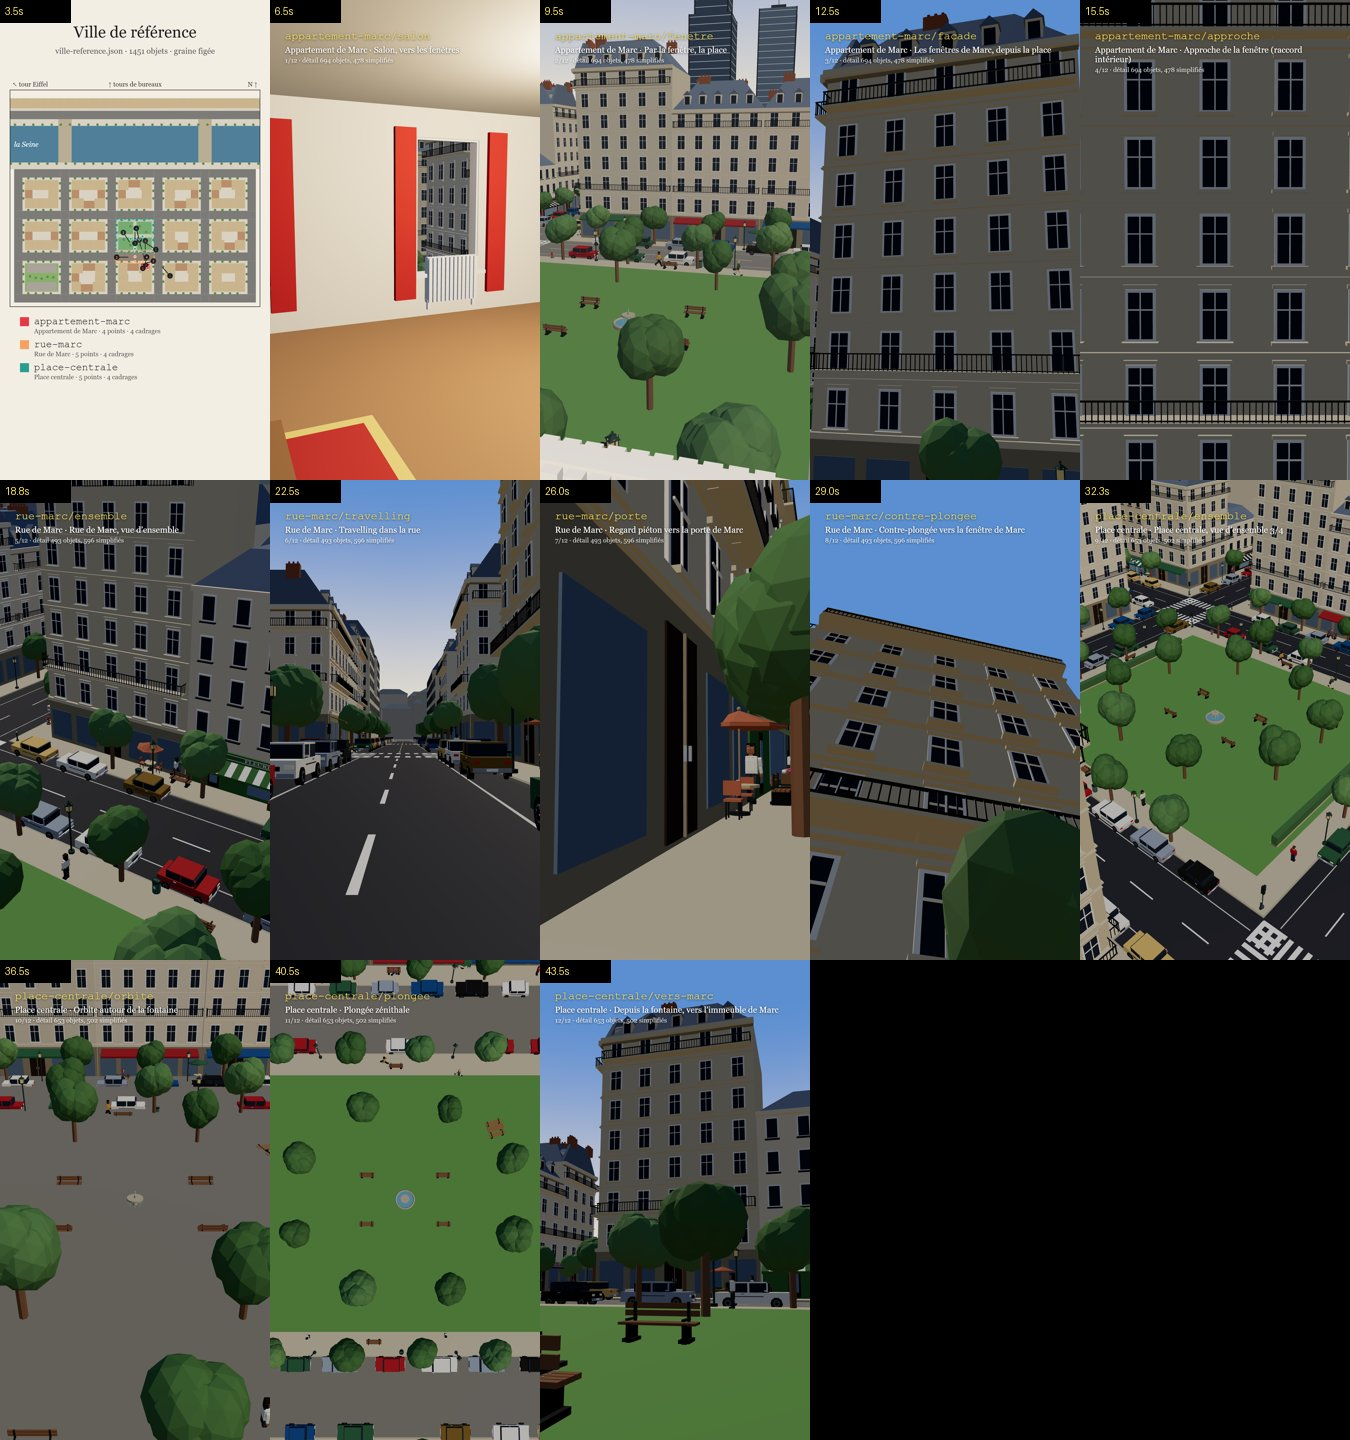
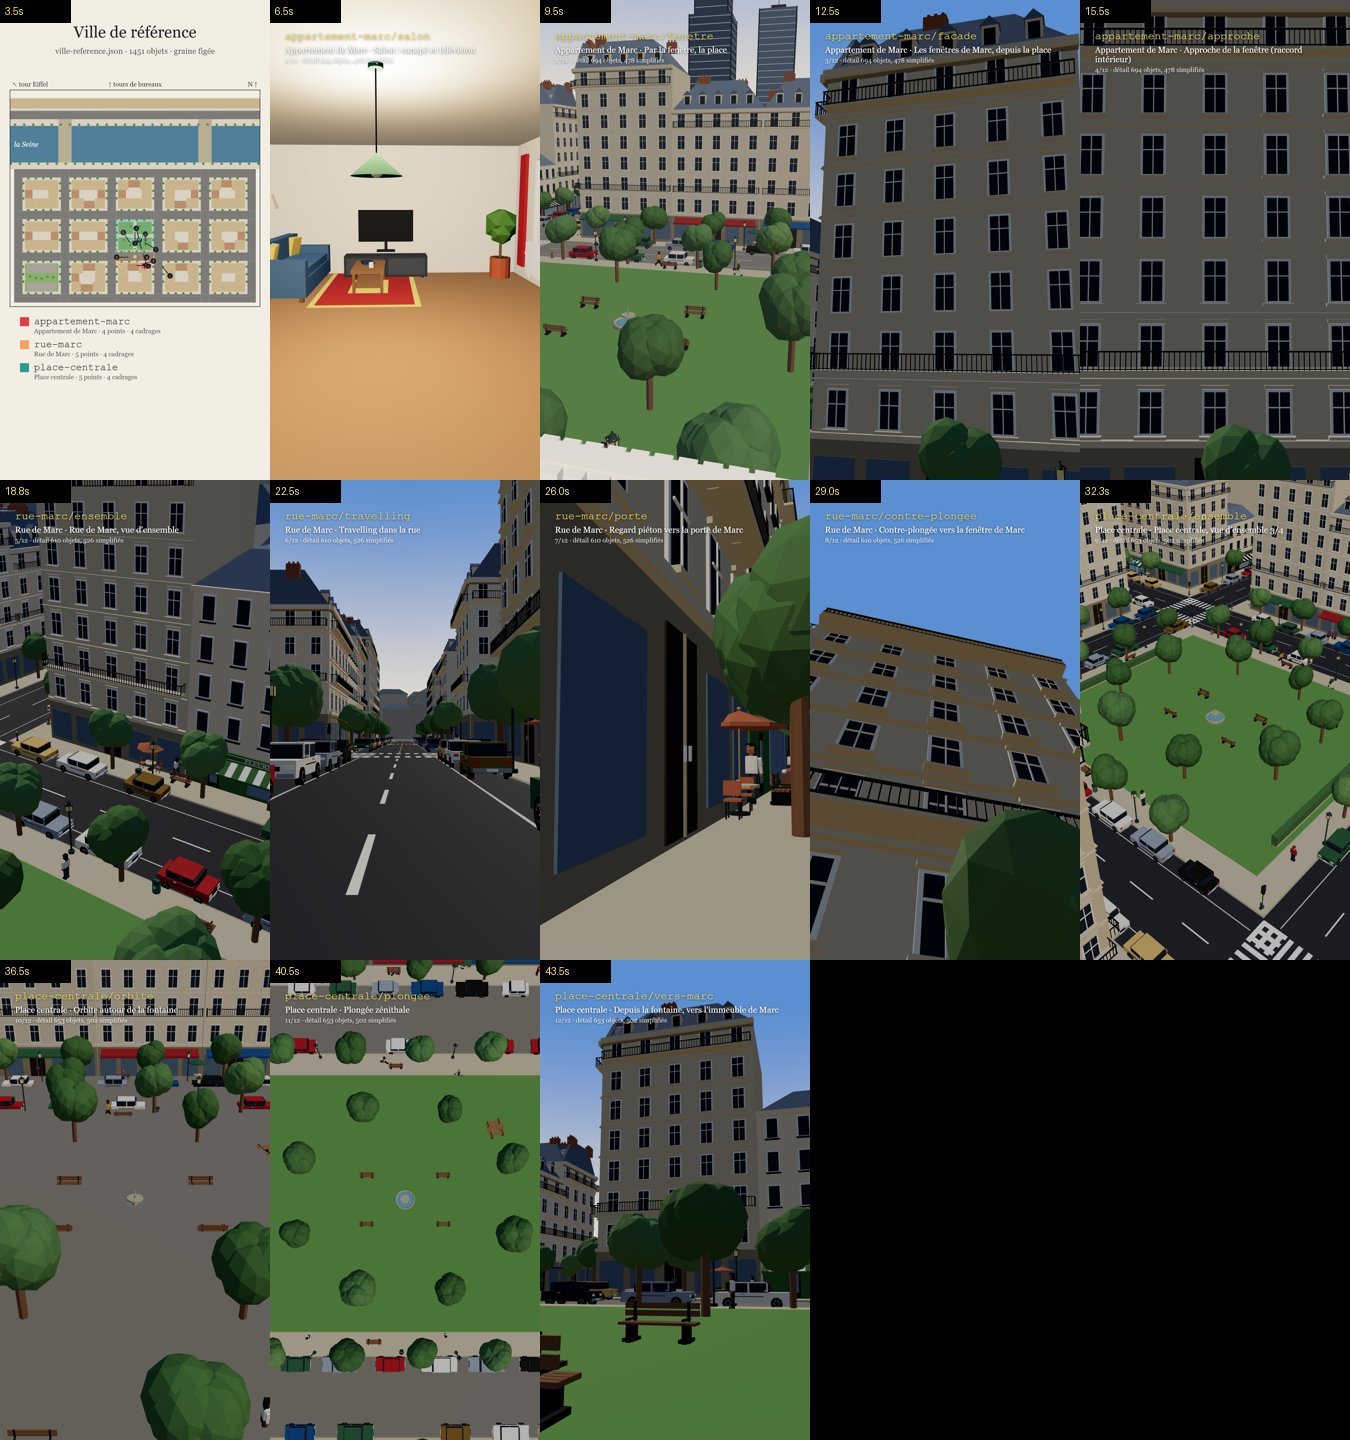
Ville de référence : salon recadré, détail de rue-marc étiré le long de la rue
- appartement-marc/salon : canapé, tapis, télévision et fenêtre dans le même cadre (fov 70).
- appartement-marc/approche : part de la place, plus large, avant d'arriver à la fenêtre.
- rue-marc : détail centré plus à l'est (rayon 80) ; la couture au fond du travelling passe
  de 0,73 à 0,32/255, les 12 autres images restent identiques au pixel.
- Mesure refaite : 127 → 93 ms par image avec la simplification.

Changed region(s): [[0.7778, 0.0, 1.0, 0.3438], [0.1867, 0.0, 0.4044, 0.3438], [0.2489, 0.4375, 0.28, 0.4688]]

diff --git a/src/assets/city/reference/shots.ts b/src/assets/city/reference/shots.ts
@@ -16,14 +16,14 @@ const shot = (place: PlaceId, key: string, name: string, duration: number, from:
 
 export const REFERENCE_SHOTS: Readonly<Record<PlaceId, readonly ReferenceShot[]>> = Object.freeze({
   'appartement-marc': [
-    shot('appartement-marc', 'salon', 'Salon, vers les fenêtres', 3,
-      v([9.364, 15.4, 38.95], [11.7, 14.75, 33.25], 58), v([9.464, 15.35, 38.5], [11.7, 14.75, 33.25], 58), {inside: true}),
+    shot('appartement-marc', 'salon', 'Salon : canapé et télévision', 3,
+      v([15.864, 15.3, 36.1], [9.868, 14.65, 35.891], 70), v([15.464, 15.3, 36.1], [9.868, 14.65, 35.891], 70), {inside: true}),
     shot('appartement-marc', 'fenetre', 'Par la fenêtre, la place', 3,
       v([12.9, 15.3, 34.6], [2, 6, -8], 55), v([12.6, 15.3, 34.05], [2, 6, -8], 55), {inside: true}),
     shot('appartement-marc', 'facade', 'Les fenêtres de Marc, depuis la place', 3,
       v([5, 9.5, 5], [12.364, 15, 33], 50), v([5.6, 9.5, 7], [12.364, 15, 33], 50)),
     shot('appartement-marc', 'approche', 'Approche de la fenêtre (raccord intérieur)', 3,
-      v([12.364, 16, 6], [12.364, 15.2, 33], 50), v([12.364, 15.6, 18], [12.364, 15.2, 33], 50)),
+      v([12.364, 9, -2], [12.364, 13, 33], 50), v([12.364, 15, 18], [12.364, 15.2, 33], 50)),
   ],
   'rue-marc': [
     shot('rue-marc', 'ensemble', 'Rue de Marc, vue d’ensemble', 3.5,

diff --git a/src/assets/city/reference/places.ts b/src/assets/city/reference/places.ts
@@ -125,7 +125,9 @@ const street = (): Place => ({
     {id: 'lampadaire', label: 'Lampadaire', pos: [6.5, 0.15, 30.45], item: 'street-lamp-909'},
     {id: 'fleuriste', label: 'Fleuriste', pos: [-2.17, 1.5, 33], item: 'shop-893'},
   ],
-  detailRadius: 70,
+  // The street runs east-west: detail stretched along it, so the far end of a travelling stays complete.
+  detailRadius: 80,
+  detailCenter: [18, 25],
 });
 
 const square = (): Place => ({

diff --git a/docs/ville-reference.md b/docs/ville-reference.md
@@ -90,17 +90,20 @@ tours) restent toujours complets.
 
 Mesure (`npm run benchmark -- VilleReferenceVisiteSansLOD VilleReferenceVisite --frames 300`, GTX 1660 Ti) :
 
-| Composition (300 images, rue-marc puis place-centrale) | Objets en détail | 1ᵉʳ passage | 2ᵉ passage (ordre inverse) | Mémoire système |
-| --- | --- | --- | --- | --- |
-| `VilleReferenceVisiteSansLOD` (avant : tout en détail) | 1 451 | 121 ms/image | 120 ms/image | +2 577 / +2 663 Mo |
-| `VilleReferenceVisite` (après : lieu + voisinage) | 493 à 694 | 90 ms/image | 93 ms/image | +2 415 / +2 378 Mo |
+| Composition (300 images, rue-marc puis place-centrale) | Objets en détail | 1ᵉʳ passage | 2ᵉ passage (ordre inverse) | 3ᵉ passage (détail de rue-marc élargi) | Mémoire système |
+| --- | --- | --- | --- | --- | --- |
+| `VilleReferenceVisiteSansLOD` (avant : tout en détail) | 1 451 | 121 ms/image | 120 ms/image | 127 ms/image | +2,5 à +2,7 Go |
+| `VilleReferenceVisite` (après : lieu + voisinage) | 610 à 694 | 90 ms/image | 93 ms/image | 93 ms/image | +2,4 Go |
 
 Soit environ −25 % de temps de rendu par image et −200 Mo de mémoire système. Le pic mémoire de Node suit
 la composition rendue en premier (préchauffage) et n'est pas comparable. Résultats bruts :
 [`benchmarks/ville-reference-2026-11-03.json`](benchmarks/ville-reference-2026-11-03.json).
 
-Sur les 12 cadrages de référence, l'image avec simplification est identique au pixel près à l'image tout
-en détail (écart moyen 0) : les objets simplifiés sont cachés ou hors champ. Pour juger leur allure, la
+Sur 12 des 13 images de la visite, l'image avec simplification est identique au pixel près à l'image tout
+en détail (écart moyen 0) : les objets simplifiés sont cachés ou hors champ. Seul `rue-marc/travelling`, qui
+regarde l'axe de la rue sur une centaine de mètres, montre au fond des façades sans balcons (écart moyen
+0,32/255, ramené de 0,73 en étirant le détail de `rue-marc` le long de la rue et en gardant les voitures
+lointaines en boîtes). Pour juger leur allure, la
 visite accepte un rayon forcé :
 
 ```powershell
